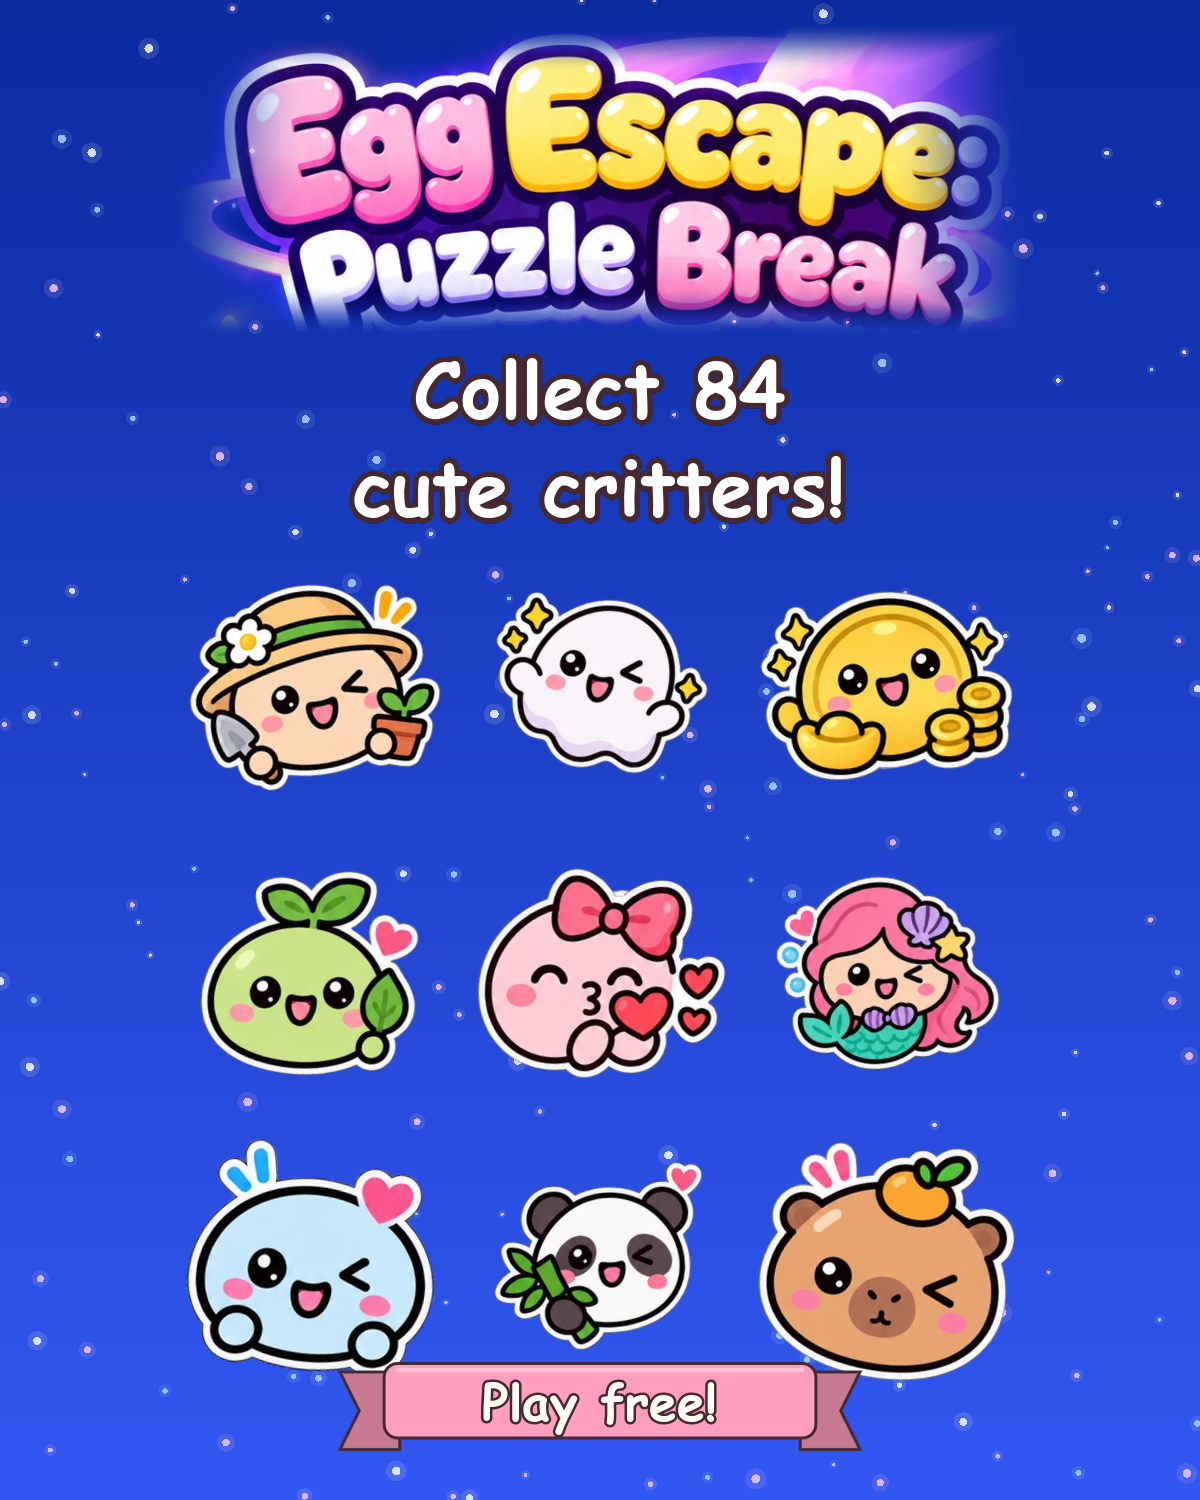
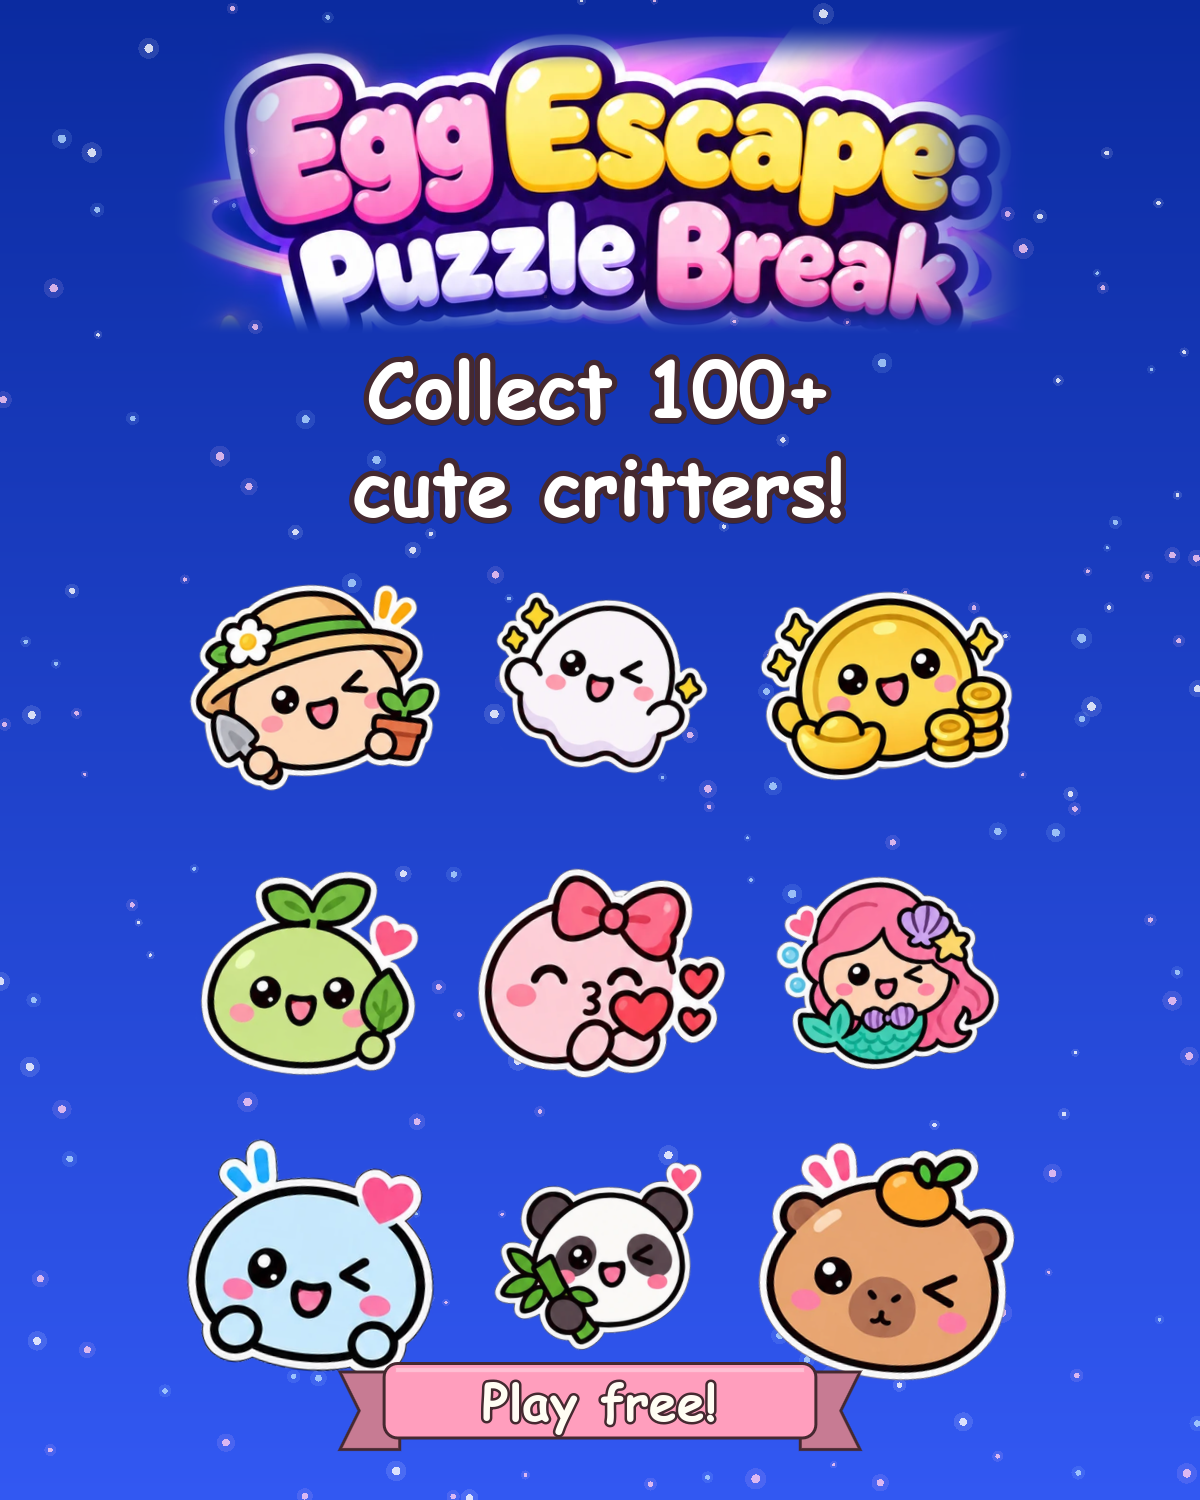
Ads kit: the Collect images and text say 100+ critters (the game has 104), not 84.

Changed region(s): [[0.2775, 0.2147, 0.7092, 0.3067]]

diff --git a/store/ads/README.md b/store/ads/README.md
@@ -11,7 +11,7 @@ set it up once production access is granted and the app is published.
 
 1. Crack the egg, free a critter
 2. Spin, match & break free!
-3. Collect 84 cute critters
+3. Collect 100+ cute critters
 4. Cozy block puzzle game
 5. Free puzzle fun, any time
 
@@ -19,7 +19,7 @@ set it up once production access is granted and the app is published.
 
 1. Spin the egg, drop matching blocks and dig a path out for the critter trapped inside.
 2. Hundreds of levels, clever blockers, win streaks and timed challenge eggs to beat!
-3. Collect and level up 84 cute critters, open chests and rebuild your crashed ship.
+3. Collect and level up 100+ cute critters, open chests and rebuild your crashed ship.
 4. Relaxing pastel art, cozy music and a new Daily Egg puzzle to crack every day.
 5. Can you save them all? Play Egg Escape: Block Puzzle Match free today!
 
@@ -31,7 +31,7 @@ Five ideas, each in all three shapes App campaigns use. Upload all 15.
 |---|---|---|---|---|
 | Crack | Crack the egg. Free the critter! | `01_crack_landscape_1200x628.png` | `01_crack_square_1200x1200.png` | `01_crack_portrait_1200x1500.png` |
 | Rescue | Can you save them all? | `02_rescue_landscape_1200x628.png` | `02_rescue_square_1200x1200.png` | `02_rescue_portrait_1200x1500.png` |
-| Collect | Collect 84 cute critters! | `03_collect_landscape_1200x628.png` | `03_collect_square_1200x1200.png` | `03_collect_portrait_1200x1500.png` |
+| Collect | Collect 100+ cute critters! | `03_collect_landscape_1200x628.png` | `03_collect_square_1200x1200.png` | `03_collect_portrait_1200x1500.png` |
 | Adventure | A cozy puzzle adventure | `04_adventure_landscape_1200x628.png` | `04_adventure_square_1200x1200.png` | `04_adventure_portrait_1200x1500.png` |
 | Spin | Spin. Match. Escape! | `05_spin_landscape_1200x628.png` | `05_spin_square_1200x1200.png` | `05_spin_portrait_1200x1500.png` |
 
